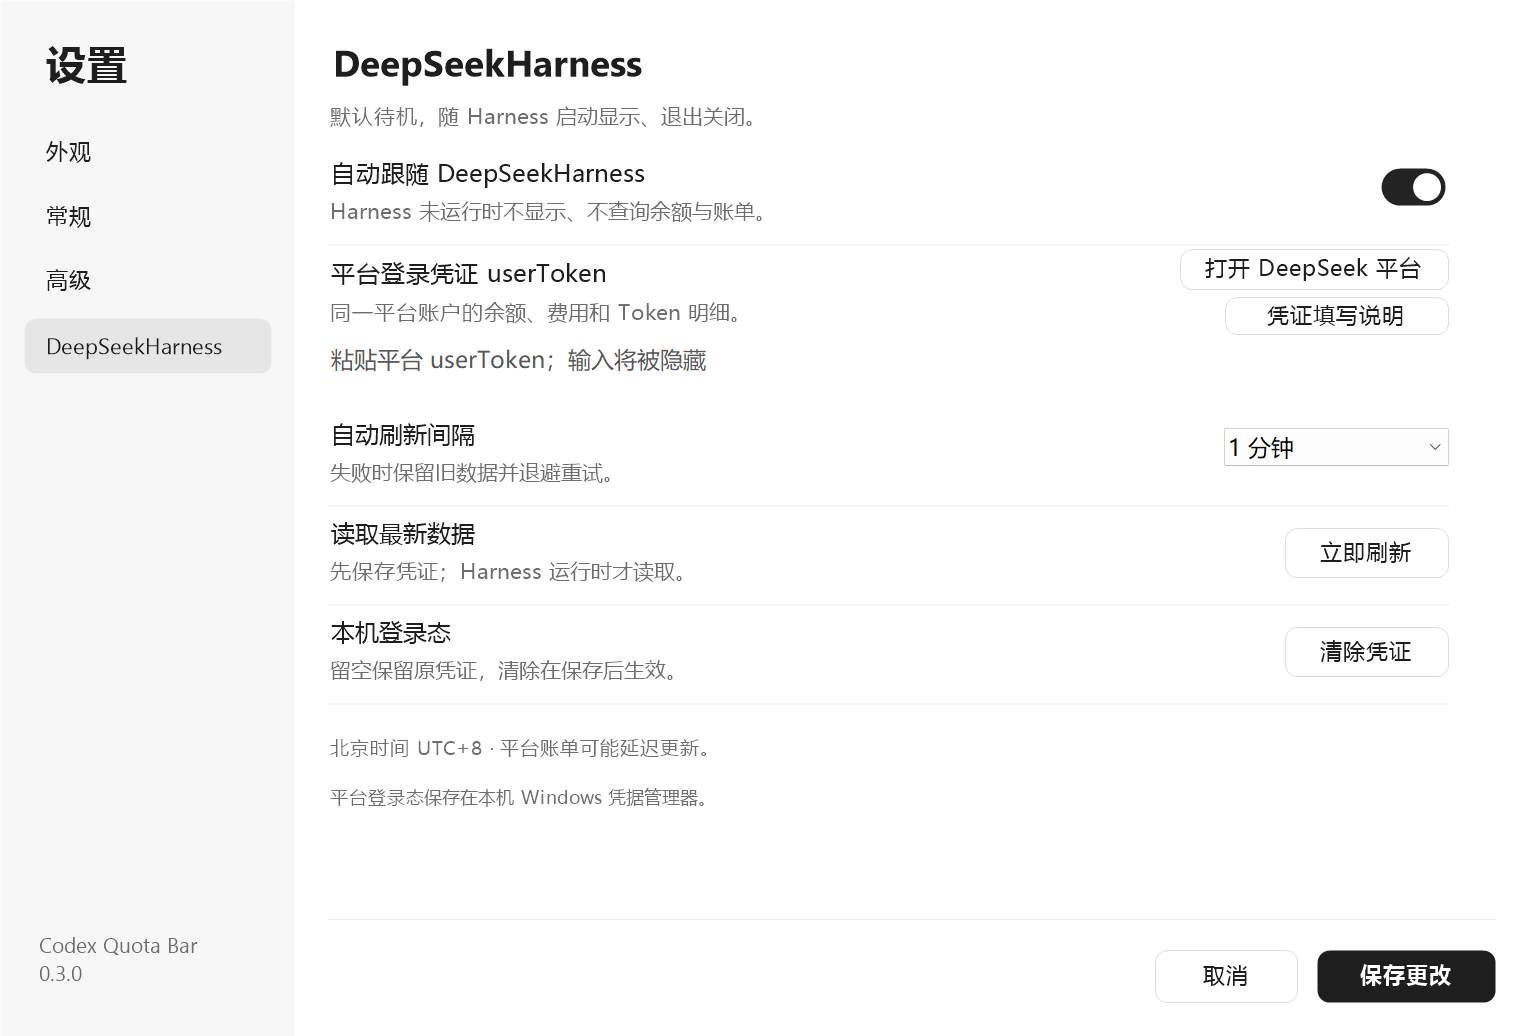
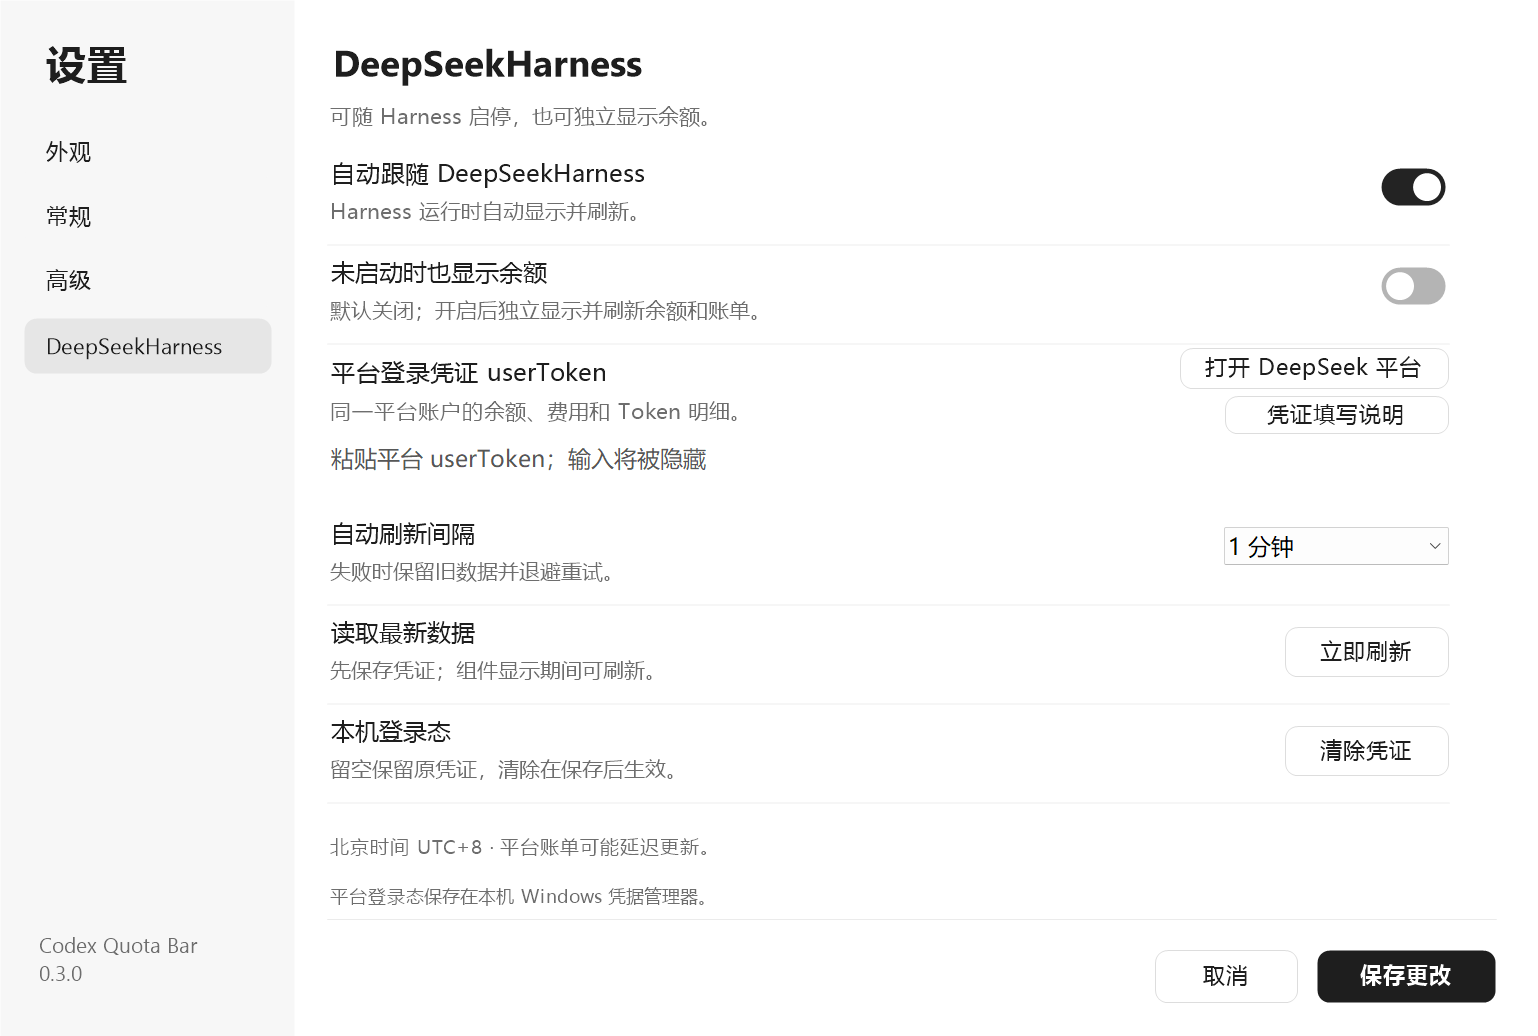
Add optional balance display when Harness is not running

diff --git a/native/settings.cpp b/native/settings.cpp
@@ -37,7 +37,8 @@ enum {
     DeepSeekRefresh,
     DeepSeekClear,
     DeepSeekPlatform,
-    DeepSeekHelp
+    DeepSeekHelp,
+    DeepSeekAlwaysShow
 };
 static std::wstring controlText(HWND w) {
     int n = GetWindowTextLengthW(w);
@@ -58,7 +59,7 @@ static void registerSettingsClass(const wchar_t *name, WNDPROC proc) {
 }
 static bool isToggle(int id) {
     return id == Letters || id == Remaining || id == Percent || id == Animate || id == Startup ||
-           id == ShowHour || id == ShowWeek || id == DeepSeekEnabled || id == AvoidIcons;
+           id == ShowHour || id == ShowWeek || id == DeepSeekEnabled || id == DeepSeekAlwaysShow || id == AvoidIcons;
 }
 SettingsWindow::SettingsWindow(Application *a, HMONITOR requested)
     : app(a), draft(a->settings), startup(startupEnabled()) {
@@ -161,6 +162,7 @@ void SettingsWindow::createControls() {
     button(L"恢复套餐默认", ResetQuotas, 1);
     button(L"图标自动避让", AvoidIcons, 1);
     button(L"自动跟随 DeepSeekHarness", DeepSeekEnabled, 3);
+    button(L"未启动时也显示余额", DeepSeekAlwaysShow, 3);
     deepSeekToken = control(L"EDIT", L"", DeepSeekToken, 3, ES_PASSWORD | ES_AUTOHSCROLL);
     SendMessageW(deepSeekToken, EM_SETLIMITTEXT, 2560, 0);
     bool hasToken = !app->testing && !deepSeekCredential().empty();
@@ -218,7 +220,7 @@ void SettingsWindow::layout() {
     GetClientRect(content, &c);
     contentWidth = int(c.right * 96. / dpi);
     contentHeight = int(c.bottom * 96. / dpi);
-    int needed = page == 0 ? 704 : page == 1 ? 620 : page == 3 ? 542 : 540;
+    int needed = page == 0 ? 704 : page == 1 ? 620 : page == 3 ? 608 : 540;
     scroll = std::clamp(scroll, 0, std::max(0, needed - contentHeight));
     SCROLLINFO si{sizeof(si), SIF_RANGE | SIF_PAGE | SIF_POS,   0,
                   needed - 1, UINT(std::max(1, contentHeight)), scroll,
@@ -257,12 +259,13 @@ void SettingsWindow::layout() {
     place(Exit, contentWidth - 146, 339, 132, 34);
     place(Uninstall, contentWidth - 124, 405, 110, 34);
     place(DeepSeekEnabled, contentWidth - 60, 89, 44, 26);
-    place(DeepSeekToken, 0, 205, contentWidth - 14, 30);
-    place(DeepSeekInterval, contentWidth - 164, 263, 150, 220);
-    place(DeepSeekRefresh, contentWidth - 124, 329, 110, 34);
-    place(DeepSeekClear, contentWidth - 124, 395, 110, 34);
-    place(DeepSeekPlatform, contentWidth - 194, 143, 180, 28);
-    place(DeepSeekHelp, contentWidth - 164, 175, 150, 26);
+    place(DeepSeekAlwaysShow, contentWidth - 60, 155, 44, 26);
+    place(DeepSeekToken, 0, 271, contentWidth - 14, 30);
+    place(DeepSeekInterval, contentWidth - 164, 329, 150, 220);
+    place(DeepSeekRefresh, contentWidth - 124, 395, 110, 34);
+    place(DeepSeekClear, contentWidth - 124, 461, 110, 34);
+    place(DeepSeekPlatform, contentWidth - 194, 209, 180, 28);
+    place(DeepSeekHelp, contentWidth - 164, 241, 150, 26);
     SendMessageW(content, WM_SETREDRAW, TRUE, 0);
     RedrawWindow(window, nullptr, nullptr, RDW_INVALIDATE | RDW_ERASE | RDW_ALLCHILDREN | RDW_UPDATENOW);
 }
@@ -338,7 +341,7 @@ void SettingsWindow::draw(HDC dc, bool inner) {
             const wchar_t *subtitles[] = {L"调整任务栏组件的显示方式。",
                                           L"管理显示屏幕，以及应用的启动与退出。",
                                           L"配置额度读取来源，或手动刷新额度。",
-                                          L"默认待机，随 Harness 启动显示、退出关闭。"};
+                                          L"可随 Harness 启停，也可独立显示余额。"};
             drawUiText(g, headings[page], RectF(0, 0, float(contentWidth), 40), 25, ink, true);
             drawUiText(g, subtitles[page], RectF(0, 43, float(contentWidth), 26), 14, muted);
             auto row = [&](float y, const wchar_t *title, const wchar_t *description, float reserve = 240) {
@@ -400,14 +403,15 @@ void SettingsWindow::draw(HDC dc, bool inner) {
                 drawUiText(g, L"通过本机 Codex 读取，不保存登录信息。", RectF(0, 483, float(contentWidth), 32),
                          14, muted);
             } else {
-                row(82, L"自动跟随 DeepSeekHarness", L"Harness 未运行时不显示、不查询余额与账单。", 110);
-                drawUiText(g, L"平台登录凭证 userToken", RectF(0, 148, contentWidth - 210.f, 26), 16, ink);
-                drawUiText(g, L"同一平台账户的余额、费用和 Token 明细。", RectF(0, 174, contentWidth - 175.f, 26), 14, muted);
-                row(256, L"自动刷新间隔", L"失败时保留旧数据并退避重试。", 190);
-                row(322, L"读取最新数据", L"先保存凭证；Harness 运行时才读取。", 150);
-                row(388, L"本机登录态", clearDeepSeekCredentials ? L"保存后将清除原凭证，可填写新凭证替换。" : L"留空保留原凭证，清除在保存后生效。", 150);
-                drawUiText(g, L"北京时间 UTC+8 · 平台账单可能延迟更新。", RectF(0, 464, float(contentWidth), 26), 13, muted);
-                drawUiText(g, L"平台登录态保存在本机 Windows 凭据管理器。", RectF(0, 497, float(contentWidth), 26), 12, muted);
+                row(82, L"自动跟随 DeepSeekHarness", L"Harness 运行时自动显示并刷新。", 110);
+                row(148, L"未启动时也显示余额", L"默认关闭；开启后独立显示并刷新余额和账单。", 110);
+                drawUiText(g, L"平台登录凭证 userToken", RectF(0, 214, contentWidth - 210.f, 26), 16, ink);
+                drawUiText(g, L"同一平台账户的余额、费用和 Token 明细。", RectF(0, 240, contentWidth - 175.f, 26), 14, muted);
+                row(322, L"自动刷新间隔", L"失败时保留旧数据并退避重试。", 190);
+                row(388, L"读取最新数据", L"先保存凭证；组件显示期间可刷新。", 150);
+                row(454, L"本机登录态", clearDeepSeekCredentials ? L"保存后将清除原凭证，可填写新凭证替换。" : L"留空保留原凭证，清除在保存后生效。", 150);
+                drawUiText(g, L"北京时间 UTC+8 · 平台账单可能延迟更新。", RectF(0, 530, float(contentWidth), 26), 13, muted);
+                drawUiText(g, L"平台登录态保存在本机 Windows 凭据管理器。", RectF(0, 563, float(contentWidth), 26), 12, muted);
             }
         }
     }
@@ -438,6 +442,7 @@ void SettingsWindow::drawButton(const DRAWITEMSTRUCT &item) {
                            : id == ShowHour  ? visible.hour
                            : id == ShowWeek  ? visible.week
                            : id == DeepSeekEnabled ? draft.deepSeekEnabled
+                           : id == DeepSeekAlwaysShow ? draft.deepSeekAlwaysShow
                            : id == AvoidIcons ? draft.avoidIcons
                                              : startup;
             Color track = enabled ? (light ? Color(255, 35, 35, 35) : Color(255, 225, 225, 225))
@@ -504,6 +509,9 @@ void SettingsWindow::command(int id, int notice) {
     switch (id) {
     case DeepSeekEnabled:
         draft.deepSeekEnabled = !draft.deepSeekEnabled;
+        break;
+    case DeepSeekAlwaysShow:
+        draft.deepSeekAlwaysShow = !draft.deepSeekAlwaysShow;
         break;
     case DeepSeekRefresh:
         app->refreshDeepSeek();

diff --git a/native/deepseek_tests.cpp b/native/deepseek_tests.cpp
@@ -74,6 +74,10 @@ int deepSeekTests(std::ostream &log) {
     check(!Settings::fromJson({{"DeepSeekHarnessEnabled", false}}).deepSeekEnabled &&
               !Settings::fromJson({{"DeepSeekHarnessEnabled", false}}).toJson().contains("DeepSeekEnabled"),
           "Harness follow opt-out round trips without legacy always-on configuration");
+    check(!Settings{}.deepSeekAlwaysShow &&
+              !Settings::fromJson({{"DeepSeekShowWhenStopped", "invalid"}}).deepSeekAlwaysShow &&
+              Settings::fromJson(Settings::fromJson({{"DeepSeekShowWhenStopped", true}}).toJson()).deepSeekAlwaysShow,
+          "show balance without Harness defaults off and persists a boolean override");
     check(harnessBinary(L"DeepSeek Harness.exe") && harnessBinary(L"DeepSeekHarness.exe") &&
               harnessBinary(L"DEEPSEEK-HARNESS.EXE") && !harnessBinary(L"node.exe") &&
               !harnessBinary(L"DeepSeekMonitor.exe") && !harnessBinary(L"DeepSeek Harness Setup.exe"),
@@ -227,6 +231,10 @@ int deepSeekUiTests(const fs::path &dir) {
     check(GetDlgItem(settings.content, 261) == nullptr, "DeepSeek has no API-key input control");
     check(GetWindowLongPtrW(settings.deepSeekToken, GWL_STYLE) & ES_PASSWORD, "platform session input is masked");
     settings.capture(dir / L"deepseek-settings.png");
+    settings.command(268, BN_CLICKED);
+    check(settings.draft.deepSeekAlwaysShow && !app.settings.deepSeekAlwaysShow,
+          "show-without-Harness setting is staged until Save");
+    settings.command(268, BN_CLICKED);
     settings.command(260, BN_CLICKED);
     check(!settings.draft.deepSeekEnabled, "DeepSeek setting toggles off");
     settings.command(260, BN_CLICKED);
@@ -280,7 +288,23 @@ int deepSeekUiTests(const fs::path &dir) {
     harness = true;
     app.checkHarness();
     check(pump([&] { return app.deepseek.costAt > 0; }), "Harness restart creates a fresh query session");
-    auto disabled = app.settings; disabled.deepSeekEnabled = false;
+    harness = false;
+    app.checkHarness();
+    auto always = app.settings;
+    always.deepSeekEnabled = false;
+    always.deepSeekAlwaysShow = true;
+    app.saved(always);
+    check(pump([&] { return app.deepseek.costAt > 0; }) && app.overlays.size() == selected.size(),
+          "standalone balance mode displays and queries while Harness and auto-follow are off");
+    int standaloneSession = app.harnessSession;
+    harness = true; app.checkHarness();
+    harness = false; app.checkHarness();
+    check(app.harnessActive && app.harnessSession == standaloneSession && app.deepseek.costAt > 0,
+          "Harness exit leaves standalone balance mode visible without resetting its query session");
+    int previousRequests = requests.load();
+    app.refreshDeepSeek();
+    check(pump([&] { return requests > previousRequests; }), "standalone balance supports manual refresh without Harness");
+    auto disabled = app.settings; disabled.deepSeekEnabled = false; disabled.deepSeekAlwaysShow = false;
     app.saved(disabled);
     check(app.overlays.empty(), "disabling DeepSeek removes independent widget");
     app.applyDeepSeek({app.generation - 1, DeepSeekState{}});

diff --git a/native/deepseek_ui.cpp b/native/deepseek_ui.cpp
@@ -120,7 +120,7 @@ void Application::refreshDeepSeek() {
     wake.notify_all();
 }
 void Application::checkHarness(bool force) {
-    bool active = settings.deepSeekEnabled && harnessProbe();
+    bool active = settings.deepSeekAlwaysShow || (settings.deepSeekEnabled && harnessProbe());
     {
         std::lock_guard<std::mutex> lock(mutex);
         if (active == harnessActive && !force) return;
@@ -135,8 +135,7 @@ void Application::checkHarness(bool force) {
     rebuild();
 }
 void Application::applyDeepSeek(const DeepSeekUpdate &update) {
-    if (update.generation != generation || update.session != harnessSession ||
-        !settings.deepSeekEnabled || !harnessActive) return;
+    if (update.generation != generation || update.session != harnessSession || !harnessActive) return;
     deepseek = update.state;
     for (auto &overlay : overlays)
         if (overlay->kind == WidgetKind::DeepSeek) {
@@ -169,7 +168,7 @@ void Application::runDeepSeekWorker() {
             deepSeekRefreshRequested = false;
         }
         auto day = beijingDay(utcNow());
-        if (active && cfg.deepSeekEnabled && previous.day != day) {
+        if (active && previous.day != day) {
             previous.day = day;
             previous.costAt = previous.tokensAt = 0;
             previous.costs.clear(); previous.models.clear();
@@ -177,7 +176,7 @@ void Application::runDeepSeekWorker() {
             emit(previous);
             next = 0;
         }
-        if (active && cfg.deepSeekEnabled && !*cancel && (force || GetTickCount64() >= next)) {
+        if (active && !*cancel && (force || GetTickCount64() >= next)) {
             DeepSeekState current;
             try { current = deepSeekProbe(*cancel); }
             catch (...) {

diff --git a/native/core.cpp b/native/core.cpp
@@ -116,6 +116,7 @@ Settings Settings::fromJson(const json &j) {
     s.codexPath = wide(string("CodexPath", ""));
     s.letters = boolean(j, "ShowDialLetters", true);
     s.deepSeekEnabled = boolean(j, "DeepSeekHarnessEnabled", true);
+    s.deepSeekAlwaysShow = boolean(j, "DeepSeekShowWhenStopped", false);
     s.avoidIcons = boolean(j, "AvoidTaskbarIcons", true);
     if (j.contains("DeepSeekRefreshSeconds") && j["DeepSeekRefreshSeconds"].is_number_integer()) {
         auto interval = j["DeepSeekRefreshSeconds"].get<int64_t>();
@@ -162,6 +163,7 @@ json Settings::toJson() const {
     j["ShowDialLetters"] = letters;
     j.erase("DeepSeekEnabled");
     j["DeepSeekHarnessEnabled"] = deepSeekEnabled;
+    j["DeepSeekShowWhenStopped"] = deepSeekAlwaysShow;
     j["AvoidTaskbarIcons"] = avoidIcons;
     j["DeepSeekRefreshSeconds"] = deepSeekInterval;
     j["ShowHourQuota"] = showHour ? json(*showHour) : json(nullptr);

diff --git a/native/app.cpp b/native/app.cpp
@@ -505,7 +505,7 @@ void Application::rebuild() {
     for (auto &m : selectedMonitors(settings)) {
         if (state.active && settings.visibility(state.q).count())
             overlays.push_back(std::make_unique<Overlay>(this, m, settings, state));
-        if (settings.deepSeekEnabled && harnessActive)
+        if (harnessActive)
             overlays.push_back(std::make_unique<Overlay>(this, m, settings, state, WidgetKind::DeepSeek));
     }
     for (auto &overlay : overlays)

diff --git a/native/app.hpp b/native/app.hpp
@@ -61,7 +61,7 @@ struct Application {
     std::atomic<bool> stopping{false};
     bool refreshRequested = false;
     bool deepSeekRefreshRequested = false;
-    bool harnessActive = false;
+    bool harnessActive = false; // Component active: running Harness or standalone balance mode.
     int harnessSession = 0;
     std::shared_ptr<std::atomic<bool>> deepSeekSessionStop = std::make_shared<std::atomic<bool>>(true);
     int generation = 0;

diff --git a/native/core.hpp b/native/core.hpp
@@ -76,6 +76,7 @@ struct Settings {
     std::wstring codexPath;
     bool letters = true;
     bool deepSeekEnabled = true; // Automatic follow mode; idle until Harness runs.
+    bool deepSeekAlwaysShow = false;
     bool avoidIcons = true;
     int deepSeekInterval = 60;
     std::optional<bool> showHour, showWeek; // Unset follows the account's default.

diff --git a/docs/DEVELOPMENT.md b/docs/DEVELOPMENT.md
@@ -10,7 +10,9 @@
 
 ## DeepSeekHarness 实现
 
-组件平时待机，500 ms 维护检查 Harness 桌面进程。官方桌面产品名参考 [Harness 打包配置](https://github.com/deepseek-ai/deepseek-harness/blob/master/apps/desktop/scripts/electron-builder-config.mjs)，识别 `DeepSeek Harness.exe`、`DeepSeekHarness.exe`、`deepseek-harness.exe`，不将普通 Node、安装器、余额监控工具视为 Harness；不检测浏览器和 CLI 会话。`DeepSeekHarnessEnabled` 表示是否自动跟随，默认 true；旧的常驻 `DeepSeekEnabled` 不再决定运行状态，序列化时删除旧键。未运行时不显示组件，也不启动平台查询。每次应用启停或设置更改更新会话代次并替换共享取消标记，退出时立即隐藏，后续请求检查取消，响应必须同时匹配配置代次和应用会话代次才可应用；重新启动不会沿用旧数据。
+`DeepSeekShowWhenStopped` 为独立显示选项，默认 false。实际显示及 worker 查询条件统一为 `DeepSeekShowWhenStopped || (DeepSeekHarnessEnabled && harnessRunning)`；前者开启时应用启停不会重置查询会话。任意显示条件满足即可自动或手动刷新，两项均关闭时取消当前请求并清空显示。
+
+默认联动模式下组件平时待机，500 ms 维护检查 Harness 桌面进程。官方桌面产品名参考 [Harness 打包配置](https://github.com/deepseek-ai/deepseek-harness/blob/master/apps/desktop/scripts/electron-builder-config.mjs)，识别 `DeepSeek Harness.exe`、`DeepSeekHarness.exe`、`deepseek-harness.exe`，不将普通 Node、安装器、余额监控工具视为 Harness；不检测浏览器和 CLI 会话。`DeepSeekHarnessEnabled` 表示是否自动跟随，默认 true；旧的常驻 `DeepSeekEnabled` 不再决定运行状态，序列化时删除旧键。默认模式下，未运行时不显示组件，也不启动平台查询。显示条件或设置更改时更新会话代次并替换共享取消标记，停止显示时隐藏并取消后续请求，响应必须同时匹配配置代次和应用会话代次才可应用；重新显示不会沿用旧会话数据。
 
 `deepseek.cpp` 负责 Windows 凭据管理器、固定 HTTPS 端点的 WinHTTP 只读请求、账单解析与 UTC+8 日期；`deepseek_ui.cpp` 负责独立 worker、任务栏文字与悬浮明细。启用状态和刷新间隔保存在 JSON；userToken 只存入本机 Windows 凭据管理器，不写入配置、命令行或日志。余额与账单均由平台登录态读取。程序不提供 API Key 输入、读取或保存接口，不访问 `api.deepseek.com/user/balance`，也不读取 API Key 环境变量。会话导入支持原始令牌、Bearer 文本及浏览器本地存储的 `{"value":"…"}` 结构。识别为 `sk-` 前缀的 API Key 在网络请求和持久化之前拒绝。
 

diff --git a/CHANGELOG.md b/CHANGELOG.md
@@ -6,6 +6,7 @@
 - 常规设置新增默认开启的图标自动避让：避开可识别的任务栏按钮、通知区域及另一组件，空间不足时暂时隐藏并在空位恢复后显示。
 - 组件拖动时可跨越任务栏图标并覆盖另一组件；松手时按较小组件面积的 50% 判断交换或回位。联合搜索任务栏空位，支持不同宽度和拖动取消，布局在本次运行的组件重建后保留。
 - DeepSeek 组件改名 DeepSeekHarness，平时待机，自动随 Harness 桌面进程启动显示、退出关闭；退出时取消本轮查询，丢弃旧会话响应。
+- 设置新增默认关闭的“未启动时也显示余额”，开启后可独立显示与刷新，不依赖 Harness 运行或自动跟随开关。
 - 任务栏显示账户余额和北京时间当日消费；悬浮展示按模型聚合的费用、请求数、缓存命中/未命中输入和输出 Token。
 - 仅使用平台登录态读取余额、消费和 Token 明细；不提供 API Key 输入、读取或保存功能。
 - 凭证存入当前 Windows 用户的凭据管理器，不进入设置 JSON、命令行或日志；支持清除、刷新、超时与失败退避。

diff --git a/README.md b/README.md
@@ -62,7 +62,9 @@ Windows 任务栏额度与余额显示工具。支持 Codex 5 小时额度、周
 
 组件默认待机：检测到 DeepSeek Harness 桌面应用运行后显示并开始查询，应用退出后隐藏、取消本轮查询并清空显示数据。是否运行 Codex 不影响该组件。设置中的“自动跟随 DeepSeekHarness”可关闭自动联动。检测依据桌面进程，最小化或留在托盘时仍视为运行；不识别仅在浏览器或命令行运行的 Harness。
 
-运行期间默认每分钟刷新，可选 2 分钟或 5 分钟，支持手动刷新；Harness 未运行时手动刷新也不发起查询。
+“未启动时也显示余额”默认关闭。开启并保存后，无需运行 Harness 即可显示和刷新余额、当日消费及明细；Harness 退出不会隐藏组件。该选项与自动跟随独立，两个开关均关闭时停止显示和查询。
+
+组件显示期间默认每分钟刷新，可选 2 分钟或 5 分钟，支持手动刷新；两个显示条件均不满足时，手动刷新也不发起查询。
 
 ### 凭证与配置
 

diff --git a/docs/releases/v0.3.0.md b/docs/releases/v0.3.0.md
@@ -3,6 +3,7 @@
 - 修复双组件空闲时反复调整层级引起的闪烁；新增默认开启的图标自动避让，可在常规页关闭。
 - 拖动可跨越任务栏图标和覆盖另一组件，松手时按重叠面积 50% 阈值判断交换或回位；空位不足时联合重排。
 - 新增 DeepSeekHarness 余额和当日消费组件，平时待机，随 Harness 桌面应用启动显示、退出关闭。
+- 可选“未启动时也显示余额”，默认关闭；开启后不依赖 Harness 运行，可独立显示和刷新余额与账单。
 - 悬浮查看各模型费用、请求数、缓存命中 / 未命中输入和输出 Token，支持滚轮翻阅较多模型。
 - 使用平台登录态读取同一账户的余额和账单；无需 API Key，不收集账户密码。
 - 凭证存入 Windows 凭据管理器，JSON 不保存密钥；保留手动刷新、失败退避与明确错误状态。
